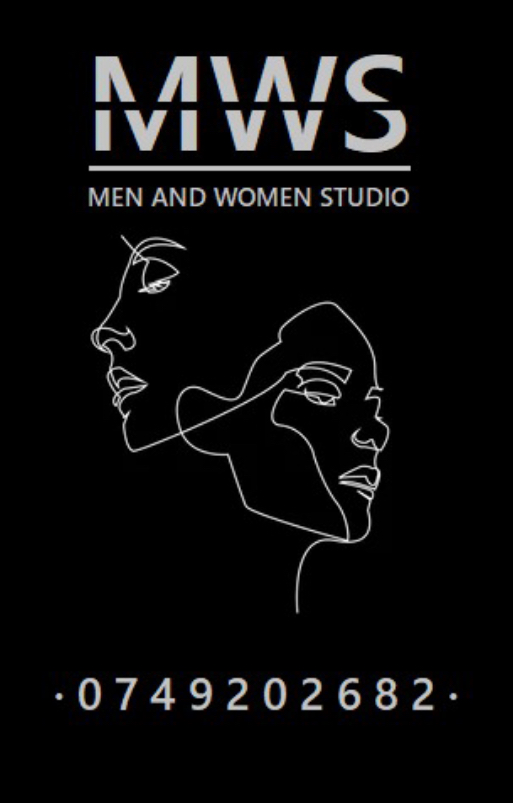
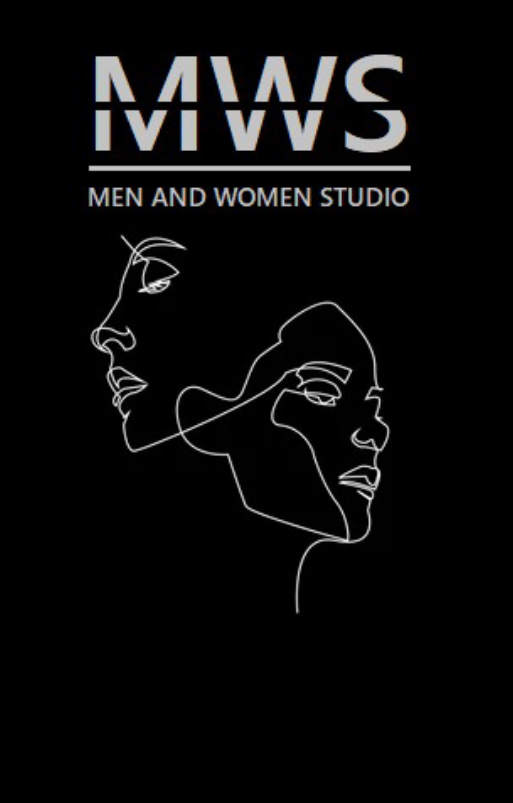
Call Btn added

diff --git a/index.html b/index.html
@@ -14,39 +14,49 @@
 </head>
 
 
-<div class="btn_group block center">
-    <div class="btn">
-        <div class="inner">
-            <button id="facebook" class="social_media">
-                <input type="image" src="facebook.png" width="100%" />
-                <script type="text/javascript">
-                    document.getElementById("facebook").onclick = function () {
-                        location.href = "https://bit.ly/34xBaz9";
-                    };
-                </script>
-            </button>
-        </div>
+<div class="btn_group center">
+    <div class="btn_row_1 ">
 
-        <div class="inner">
-            <button id="programare" href="#" class="myButton button1">
-                <a>PROGRAMEAZA-TE</a>
-                <script type="text/javascript">
-                    document.getElementById("programare").onclick = function () {
-                        location.href = "https://bit.ly/3yQILa4";
-                    };
-                </script>
-            </button>
-        </div>
+        <button id="programare" href="#" class="myButton button1">
+            <a>PROGRAMEAZA-TE</a>
+            <script type="text/javascript">
+                document.getElementById("programare").onclick = function () {
+                    location.href = "https://bit.ly/3yQILa4";
+                };
+            </script>
+        </button>
 
-        <div class="inner">
-            <button id="instagram" class="social_media">
-                <input type="image" src="instagram.png" width="100%" />
-                <script type="text/javascript">
-                    document.getElementById("instagram").onclick = function () {
-                        location.href = "https://bit.ly/3i6mUWk";
-                    };
-                </script>
-            </button>
+
+        <div class="btn_row_2">
+            <div class="block">
+                <button id="facebook" class="social_media">
+                    <input type="image" src="facebook.png" width="100%" />
+                    <script type="text/javascript">
+                        document.getElementById("facebook").onclick = function () {
+                            location.href = "https://bit.ly/34xBaz9";
+                        };
+                    </script>
+                </button>
+
+
+                <div itemscope itemtype="https://schema.org/LocalBusiness">
+                    <button id="phone-call" class="social_media">
+                        <input type="image" src="phone-call.png" width="100%" />
+                        <span itemprop="telephone">
+                            <a href="tel:+40749202682"></a>
+                        </span>
+                    </button>
+                </div>
+
+                <button id="instagram" class="social_media">
+                    <input type="image" src="instagram.png" width="100%" />
+                    <script type="text/javascript">
+                        document.getElementById("instagram").onclick = function () {
+                            location.href = "https://bit.ly/3i6mUWk";
+                        };
+                    </script>
+                </button>
+            </div>
         </div>
     </div>
 </div>

diff --git a/design_salon.css b/design_salon.css
@@ -28,6 +28,7 @@
     padding: 0% 0%;
     border-radius: 25%;
     width: 5vh;
+    margin-top: 0.2vw;
     margin-left: 1vw;
     margin-right: 1vw;
 }
@@ -46,17 +47,11 @@
 }
 
 .center {
-    width: 90vw;
     position:absolute;
     top: 80.7%;
     left: 50%;
     -ms-transform: translate(-50%, -50%);
     transform: translate(-50%, -50%);
-}
-
-.inner
-{
-    float:left;
 }
 
 .block {
